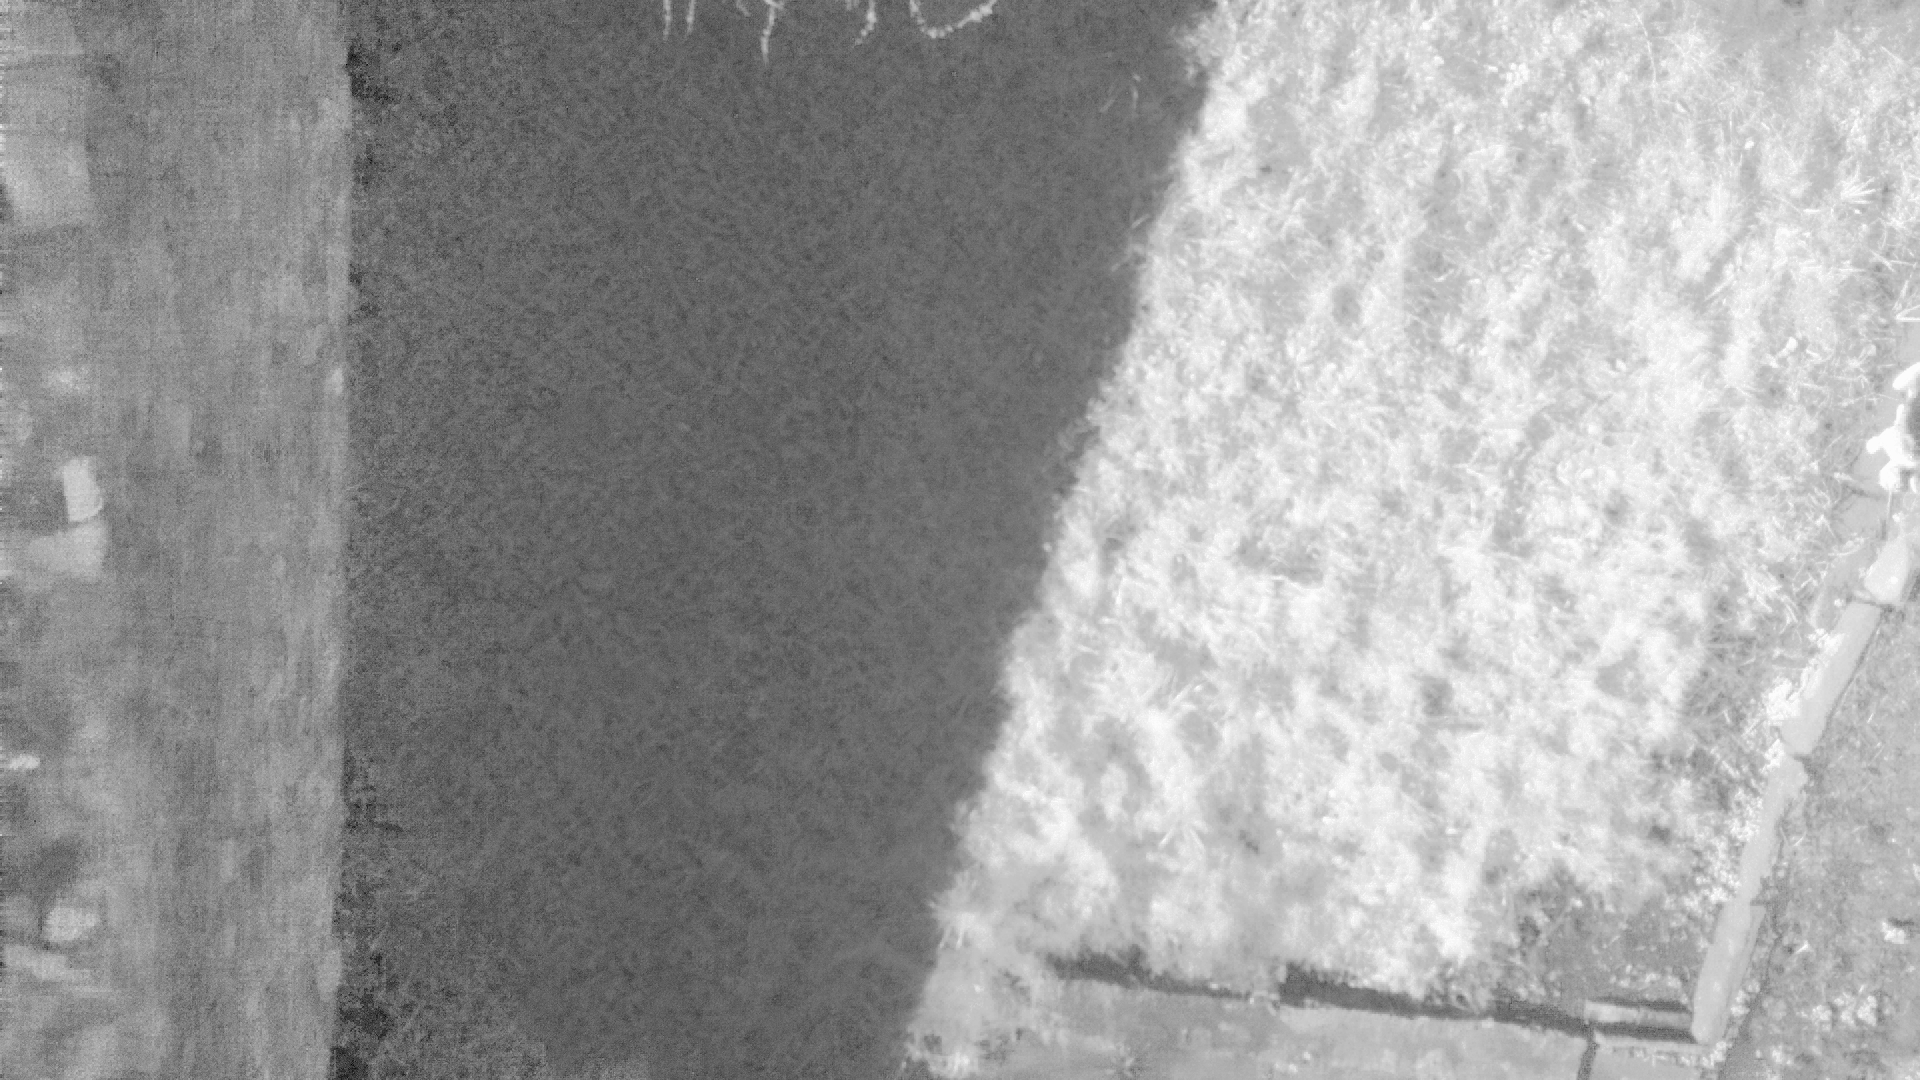
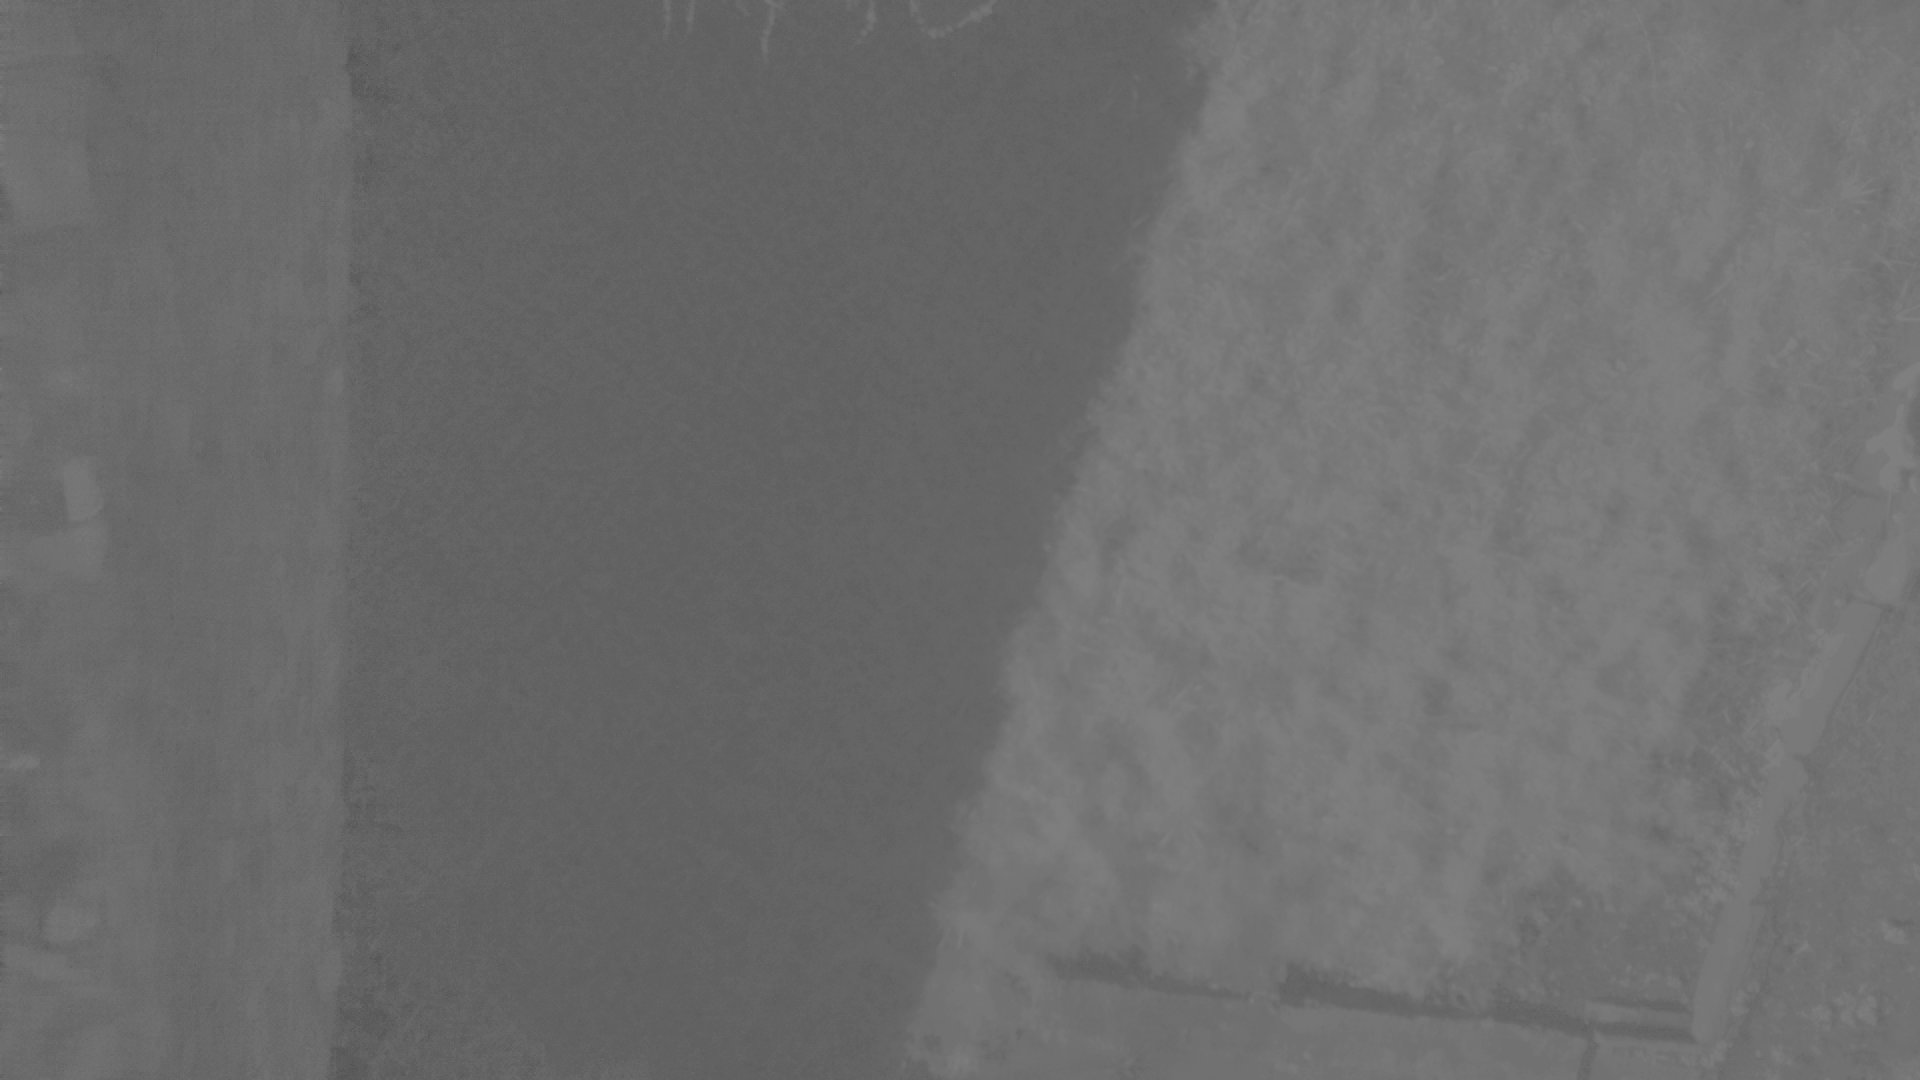
first take at normalisation

diff --git a/web_host/image_class.py b/web_host/image_class.py
@@ -62,12 +62,35 @@ class Image:
         # vmin = 0 as NDVI below 0 suggests area is not biomass (likely water)
         # vmax as max value to get most out of the cmap scale todo may not be good idea for comparisons
         # plt.imsave(destination, self.ndvi_bitmap, cmap="binary", vmin=0.0, vmax=np.amax(self.ndvi_bitmap))
-        plt.imsave(destination, self.ndvi_bitmap, cmap="binary")
+        plt.imsave(destination, self.ndvi_bitmap, cmap="binary", vmin=-1, vmax=1)
 
     # apply the colourmap to ndvi image for better readability
     def create_cmap_bitmap(self):
-        cmap_bitmap = self.ndvi_bitmap
-        self.cmap_bitmap = cmap_bitmap
+        img = cv2.imread(self.filepath + self.name.split(".")[0] + "_ndvi.png")
+        img = cv2.normalize(img, normalizedData_l1)
+        cv2.imshow('v', img)
+        cv2.waitKey(0)
+        cv2.destroyAllWindows()
+        # approximate health based on ndvi value
+        vh = 0.66 * 255
+        h = 0.33 * 255
+
+        maskv=cv2.inRange(img, (vh,vh,vh), (255,255,255))
+        maskh=cv2.inRange(img, (h, h, h), (vh, vh, vh))
+        mask=cv2.inRange(img, (0, 0, 0), (h, h, h))
+
+
+        cv2.imshow('maskv', maskv)
+        cv2.waitKey(0)
+        cv2.destroyAllWindows()
+
+        cv2.imshow('maskh', maskh)
+        cv2.waitKey(0)
+        cv2.destroyAllWindows()
+
+        cv2.imshow('mask', mask)
+        cv2.waitKey(0)
+        cv2.destroyAllWindows()
 
     def save_cmap_bitmap(self, new_filepath):
         destination = new_filepath

diff --git a/web_host/main_host.py b/web_host/main_host.py
@@ -71,7 +71,8 @@ def load_image_set(f_path, term):
 def mock_function(images):  # todo rename
     print("---- Here")
     images[0].process_image_full()
-    images[0].object_detection()
+    #images[0].object_detection()
+    images[0].create_cmap_bitmap()
     '''for image in images:
         image.process_image_full()'''
 
